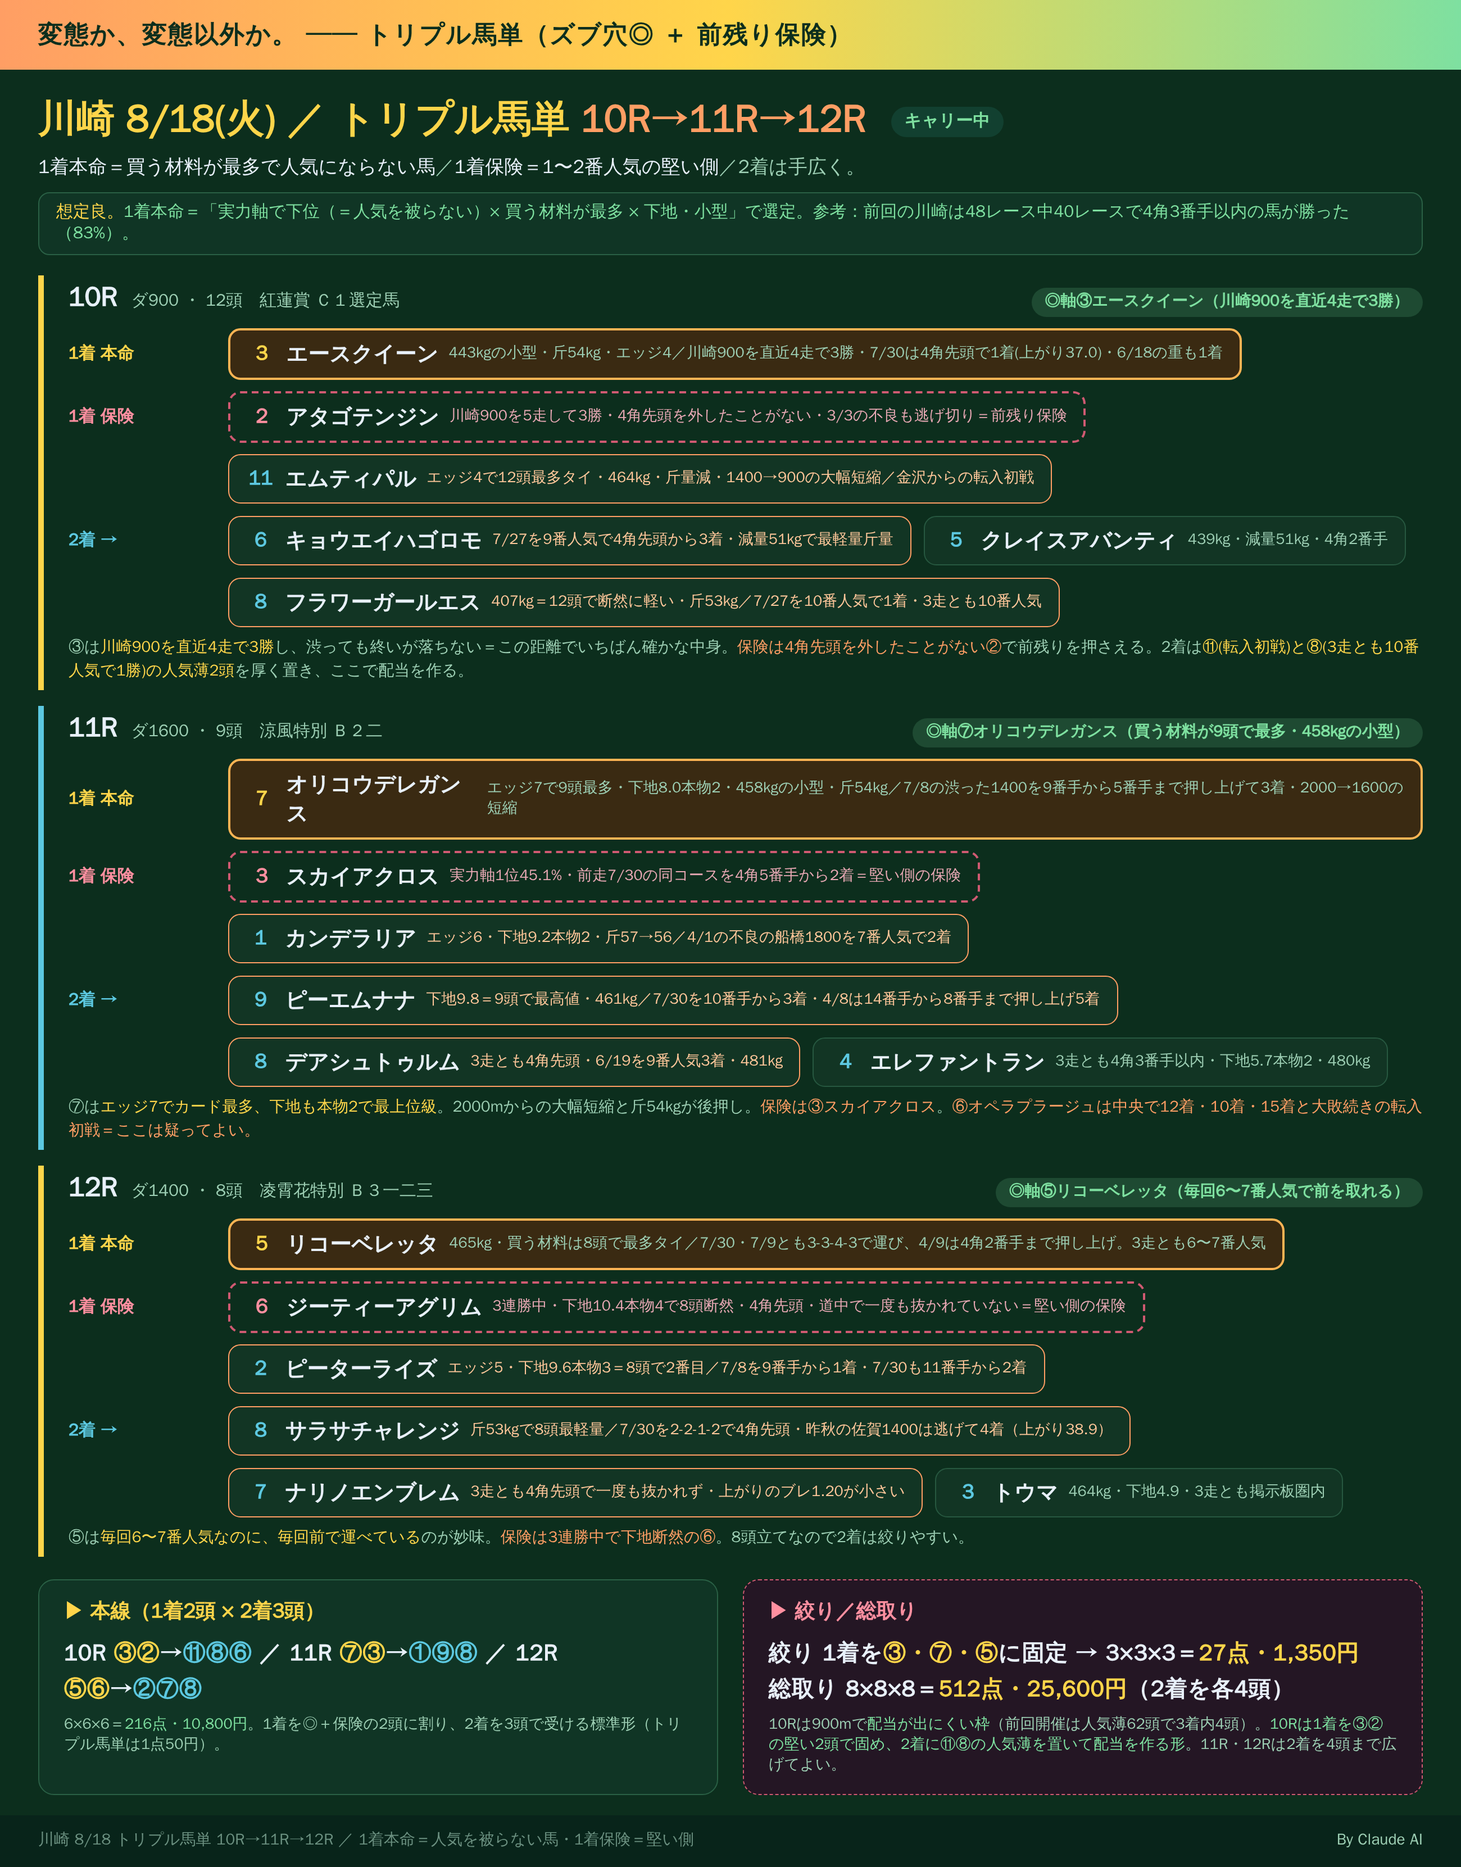
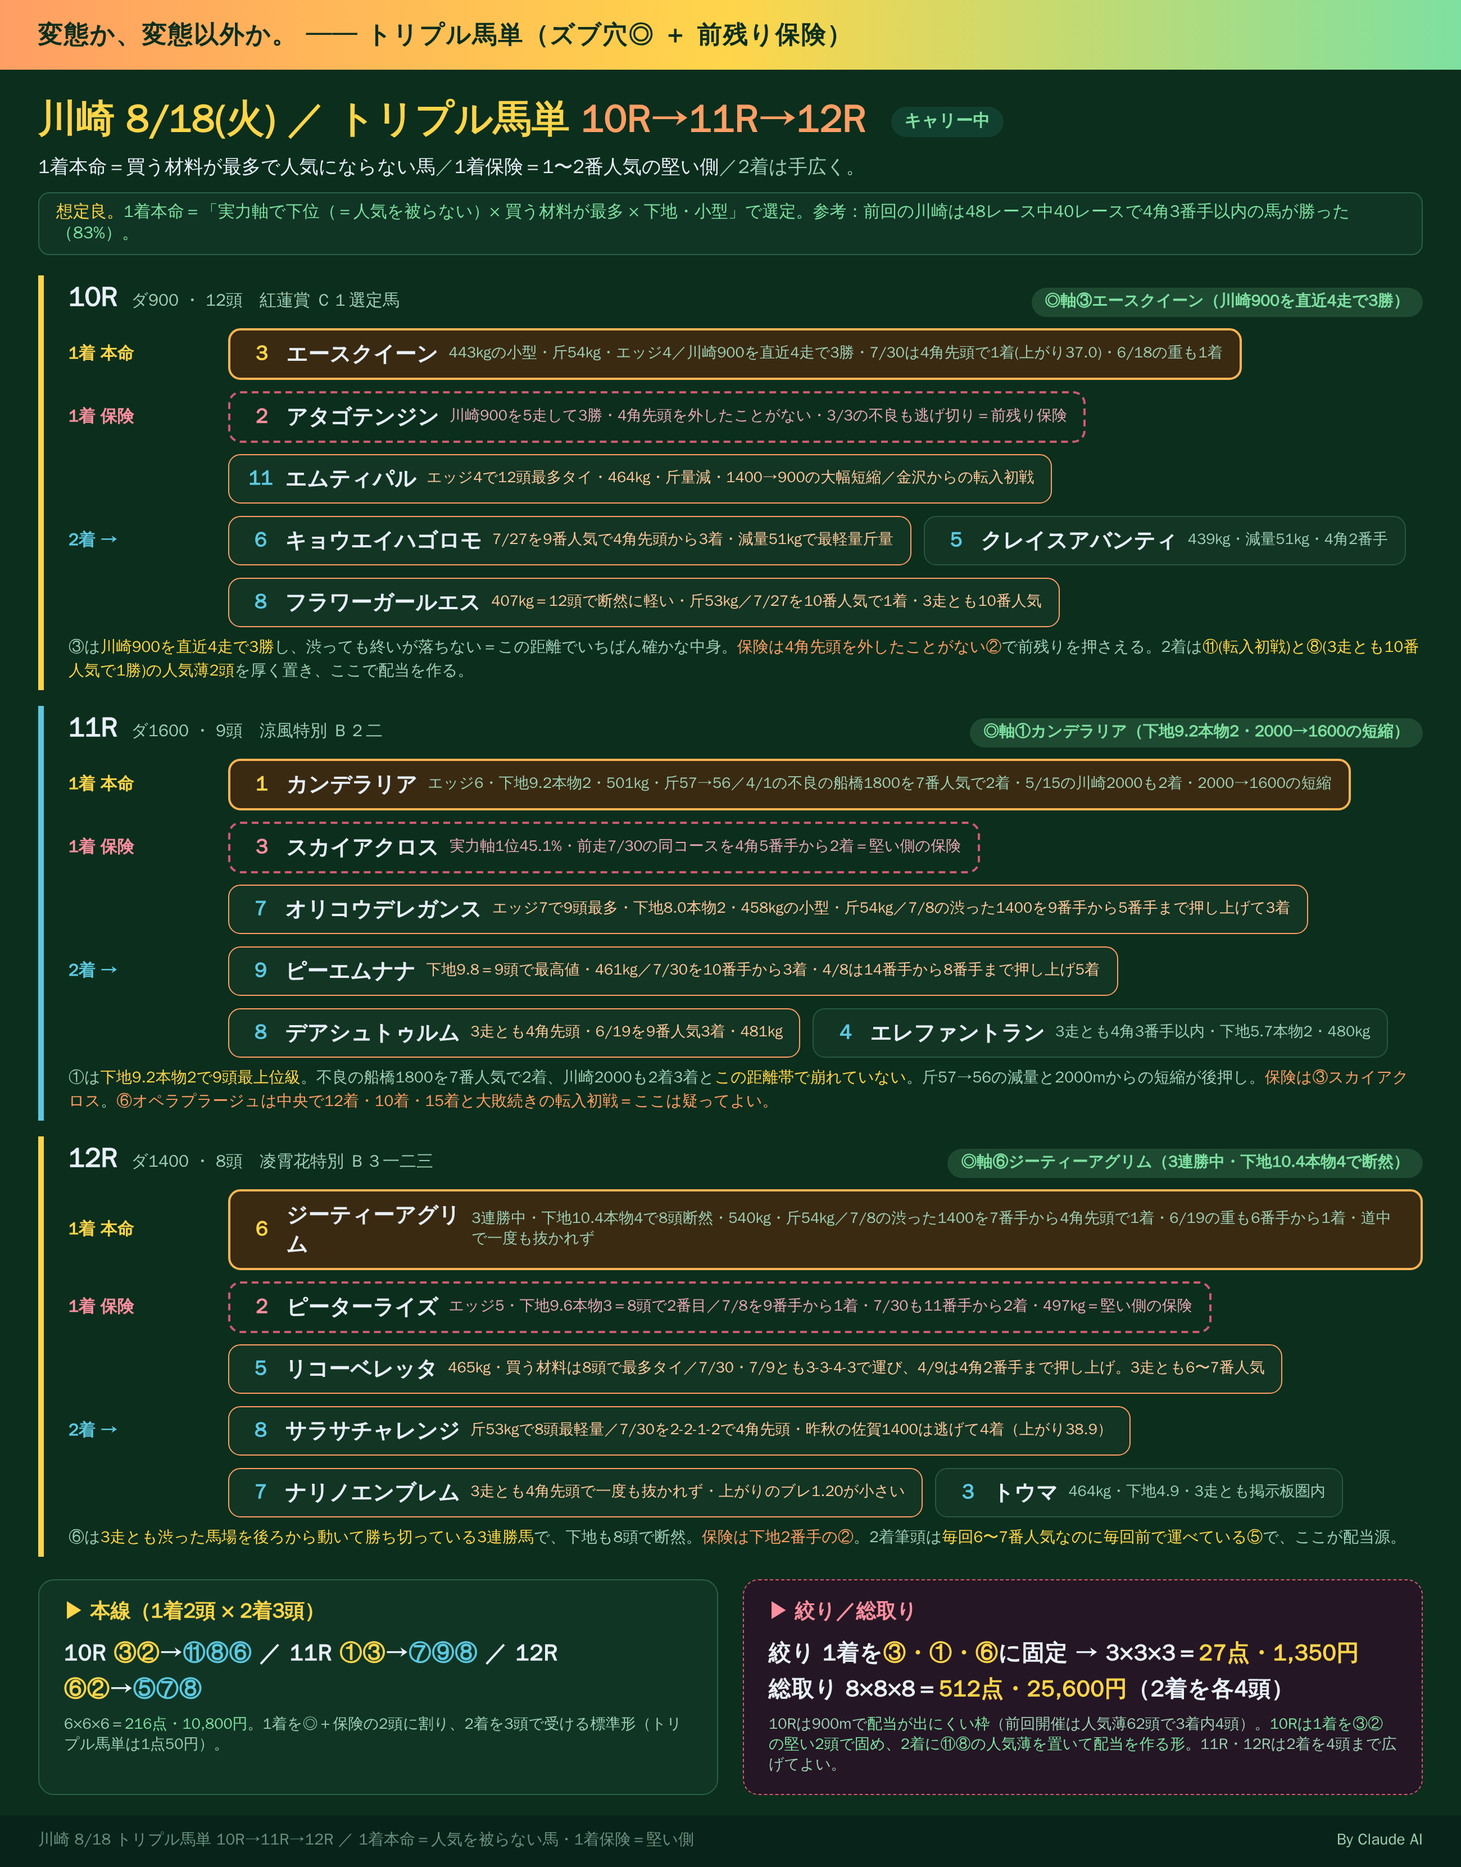
notes: 8/18 川崎 11R ◎○入れ替え・12R ◎⑥ジーティーアグリム（トリプル馬単も連動）
Claude-Session: https://claude.ai/code/session_01RoHscZkr96FNaxQWvUqgEw

Changed region(s): [[0.0312, 0.3721, 0.9969, 0.7441], [0.0623, 0.8061, 0.6542, 0.8371], [0.0312, 0.4031, 0.0935, 0.4961]]

diff --git a/notes/live/2026-08-18/kawasaki_triple_umatan.html b/notes/live/2026-08-18/kawasaki_triple_umatan.html
@@ -63,39 +63,39 @@
   </div>
 
   <div class="race r11">
-    <div class="rh"><span class="rn">11R</span><span class="rd">ダ1600 ・ 9頭　涼風特別 Ｂ２二</span><span class="rbadge">◎軸⑦オリコウデレガンス（買う材料が9頭で最多・458kgの小型）</span></div>
+    <div class="rh"><span class="rn">11R</span><span class="rd">ダ1600 ・ 9頭　涼風特別 Ｂ２二</span><span class="rbadge">◎軸①カンデラリア（下地9.2本物2・2000→1600の短縮）</span></div>
     <div class="line"><div class="tag"><span class="t1">1着 本命</span></div><div class="chips">
-      <div class="chip honmei"><span class="no">7</span><span class="nm">オリコウデレガンス</span><span class="meta">エッジ7で9頭最多・下地8.0本物2・458kgの小型・斤54kg／7/8の渋った1400を9番手から5番手まで押し上げて3着・2000→1600の短縮</span></div></div></div>
+      <div class="chip honmei"><span class="no">1</span><span class="nm">カンデラリア</span><span class="meta">エッジ6・下地9.2本物2・501kg・斤57→56／4/1の不良の船橋1800を<b>7番人気で2着</b>・5/15の川崎2000も2着・2000→1600の短縮</span></div></div></div>
     <div class="line"><div class="tag"><span class="t2">1着 保険</span></div><div class="chips">
       <div class="chip hoken"><span class="no">3</span><span class="nm">スカイアクロス</span><span class="meta">実力軸1位45.1%・前走7/30の同コースを4角5番手から2着＝堅い側の保険</span></div></div></div>
     <div class="line"><div class="tag"><span class="t3">2着 →</span></div><div class="chips">
-      <div class="chip aite ana"><span class="no">1</span><span class="nm">カンデラリア</span><span class="meta">エッジ6・下地9.2本物2・斤57→56／4/1の不良の船橋1800を<b>7番人気で2着</b></span></div>
+      <div class="chip aite ana"><span class="no">7</span><span class="nm">オリコウデレガンス</span><span class="meta">エッジ7で9頭最多・下地8.0本物2・458kgの小型・斤54kg／7/8の渋った1400を9番手から5番手まで押し上げて3着</span></div>
       <div class="chip aite ana"><span class="no">9</span><span class="nm">ピーエムナナ</span><span class="meta">下地9.8＝<b>9頭で最高値</b>・461kg／7/30を10番手から3着・4/8は14番手から8番手まで押し上げ5着</span></div>
       <div class="chip aite ana"><span class="no">8</span><span class="nm">デアシュトゥルム</span><span class="meta">3走とも4角先頭・6/19を9番人気3着・481kg</span></div>
       <div class="chip aite"><span class="no">4</span><span class="nm">エレファントラン</span><span class="meta">3走とも4角3番手以内・下地5.7本物2・480kg</span></div></div></div>
-    <div class="rc">⑦は<b>エッジ7でカード最多、下地も本物2で最上位級</b>。2000mからの大幅短縮と斤54kgが後押し。<span class="o">保険は③スカイアクロス</span>。<b class="o">⑥オペラプラージュは中央で12着・10着・15着と大敗続きの転入初戦＝ここは疑ってよい。</b></div>
+    <div class="rc">①は<b>下地9.2本物2で9頭最上位級</b>。不良の船橋1800を7番人気で2着、川崎2000も2着3着と<b>この距離帯で崩れていない</b>。斤57→56の減量と2000mからの短縮が後押し。<span class="o">保険は③スカイアクロス</span>。<b class="o">⑥オペラプラージュは中央で12着・10着・15着と大敗続きの転入初戦＝ここは疑ってよい。</b></div>
   </div>
 
   <div class="race r12">
-    <div class="rh"><span class="rn">12R</span><span class="rd">ダ1400 ・ 8頭　凌霄花特別 Ｂ３一二三</span><span class="rbadge">◎軸⑤リコーベレッタ（毎回6〜7番人気で前を取れる）</span></div>
+    <div class="rh"><span class="rn">12R</span><span class="rd">ダ1400 ・ 8頭　凌霄花特別 Ｂ３一二三</span><span class="rbadge">◎軸⑥ジーティーアグリム（3連勝中・下地10.4本物4で断然）</span></div>
     <div class="line"><div class="tag"><span class="t1">1着 本命</span></div><div class="chips">
-      <div class="chip honmei"><span class="no">5</span><span class="nm">リコーベレッタ</span><span class="meta">465kg・買う材料は8頭で最多タイ／7/30・7/9とも3-3-4-3で運び、4/9は4角2番手まで押し上げ。<b>3走とも6〜7番人気</b></span></div></div></div>
+      <div class="chip honmei"><span class="no">6</span><span class="nm">ジーティーアグリム</span><span class="meta"><b>3連勝中</b>・下地10.4本物4で8頭断然・540kg・斤54kg／7/8の渋った1400を7番手から4角先頭で1着・6/19の重も6番手から1着・道中で一度も抜かれず</span></div></div></div>
     <div class="line"><div class="tag"><span class="t2">1着 保険</span></div><div class="chips">
-      <div class="chip hoken"><span class="no">6</span><span class="nm">ジーティーアグリム</span><span class="meta"><b>3連勝中</b>・下地10.4本物4で8頭断然・4角先頭・道中で一度も抜かれていない＝堅い側の保険</span></div></div></div>
+      <div class="chip hoken"><span class="no">2</span><span class="nm">ピーターライズ</span><span class="meta">エッジ5・下地9.6本物3＝8頭で2番目／7/8を9番手から1着・7/30も11番手から2着・497kg＝堅い側の保険</span></div></div></div>
     <div class="line"><div class="tag"><span class="t3">2着 →</span></div><div class="chips">
-      <div class="chip aite ana"><span class="no">2</span><span class="nm">ピーターライズ</span><span class="meta">エッジ5・下地9.6本物3＝8頭で2番目／7/8を9番手から1着・7/30も11番手から2着</span></div>
+      <div class="chip aite ana"><span class="no">5</span><span class="nm">リコーベレッタ</span><span class="meta">465kg・買う材料は8頭で最多タイ／7/30・7/9とも3-3-4-3で運び、4/9は4角2番手まで押し上げ。<b>3走とも6〜7番人気</b></span></div>
       <div class="chip aite ana"><span class="no">8</span><span class="nm">サラサチャレンジ</span><span class="meta">斤53kgで8頭最軽量／7/30を2-2-1-2で4角先頭・昨秋の佐賀1400は逃げて4着（上がり38.9）</span></div>
       <div class="chip aite ana"><span class="no">7</span><span class="nm">ナリノエンブレム</span><span class="meta">3走とも4角先頭で一度も抜かれず・上がりのブレ1.20が小さい</span></div>
       <div class="chip aite"><span class="no">3</span><span class="nm">トウマ</span><span class="meta">464kg・下地4.9・3走とも掲示板圏内</span></div></div></div>
-    <div class="rc">⑤は<b>毎回6〜7番人気なのに、毎回前で運べている</b>のが妙味。<span class="o">保険は3連勝中で下地断然の⑥</span>。8頭立てなので2着は絞りやすい。</div>
+    <div class="rc">⑥は<b>3走とも渋った馬場を後ろから動いて勝ち切っている3連勝馬</b>で、下地も8頭で断然。<span class="o">保険は下地2番手の②</span>。2着筆頭は<b>毎回6〜7番人気なのに毎回前で運べている⑤</b>で、ここが配当源。</div>
   </div>
 
   <div class="buys">
     <div class="buy hon"><div class="bt">▶ 本線（1着2頭 × 2着3頭）</div>
-      <div class="bl">10R <span class="a">③②</span>→<span class="s">⑪⑧⑥</span> ／ 11R <span class="a">⑦③</span>→<span class="s">①⑨⑧</span> ／ 12R <span class="a">⑤⑥</span>→<span class="s">②⑦⑧</span></div>
+      <div class="bl">10R <span class="a">③②</span>→<span class="s">⑪⑧⑥</span> ／ 11R <span class="a">①③</span>→<span class="s">⑦⑨⑧</span> ／ 12R <span class="a">⑥②</span>→<span class="s">⑤⑦⑧</span></div>
       <div class="bn">6×6×6＝<b>216点・10,800円</b>。1着を◎＋保険の2頭に割り、2着を3頭で受ける標準形（トリプル馬単は1点50円）。</div></div>
     <div class="buy hok"><div class="bt">▶ 絞り／総取り</div>
-      <div class="bl">絞り 1着を<span class="a">③・⑦・⑤</span>に固定 → 3×3×3＝<span class="a">27点・1,350円</span><br>総取り 8×8×8＝<span class="a">512点・25,600円</span>（2着を各4頭）</div>
+      <div class="bl">絞り 1着を<span class="a">③・①・⑥</span>に固定 → 3×3×3＝<span class="a">27点・1,350円</span><br>総取り 8×8×8＝<span class="a">512点・25,600円</span>（2着を各4頭）</div>
       <div class="bn">10Rは900mで<b>配当が出にくい枠</b>（前回開催は人気薄62頭で3着内4頭）。<b>10Rは1着を③②の堅い2頭で固め、2着に⑪⑧の人気薄を置いて配当を作る形</b>。11R・12Rは2着を4頭まで広げてよい。</div></div>
   </div>
 

diff --git a/notes/live/2026-08-18/kawasaki_6_12.html b/notes/live/2026-08-18/kawasaki_6_12.html
@@ -90,16 +90,16 @@
 
   <div class="row">
     <div class="rN"><div class="n">11R</div><div class="d">ダ1600・9頭</div></div>
-    <div class="hm"><span class="fire">🔥</span><span class="mk">◎</span><span class="nm">⑦オリコウデレガンス</span></div>
-    <div class="at"><span class="mk2">○</span><span class="nm2">①カンデラリア</span></div>
-    <div class="memo">◎⑦は<b>458kgの小型</b>で<b>斤量54kg</b>。7/8の<b>渋った川崎1400を9番手から5番手まで押し上げて3着</b>。2000mから<b>一気に1600mへ縮む</b>のも良く、勝ち圏の時計を出した走りが2回。<b>買う材料の数はこの9頭で最多。</b>○①は4/1の<b>不良馬場の船橋1800を7番人気で、9番手から5番手まで押し上げて2着</b>。5/15の川崎2000も2着で、<b>上がり39.1は上位</b>。<b>斤量が57→56に軽くなり</b>、2000mから<b>距離が縮む</b>。501kg。ヒモ⑨②<br><b class='r'>※⑥は中央で12着・10着・15着と大敗続きの転入初戦。ここは疑ってよい。</b></div>
+    <div class="hm"><span class="fire">🔥</span><span class="mk">◎</span><span class="nm">①カンデラリア</span></div>
+    <div class="at"><span class="mk2">○</span><span class="nm2">⑦オリコウデレガンス</span></div>
+    <div class="memo">◎①は4/1の<b>不良馬場の船橋1800を7番人気で、9番手から5番手まで押し上げて2着</b>。5/15の川崎2000も<b>2着（上がり39.1）</b>、前走7/30の2000も3着と、<b>この距離帯で崩れていない</b>。<b>斤量が57→56に軽くなり</b>、2000mから<b>距離が縮む</b>。501kg。<b>勝ち圏の時計を出した中身はこの9頭で最上位級。</b>○⑦は<b>458kgの小型</b>で<b>斤量54kg</b>。7/8の<b>渋った川崎1400を9番手から5番手まで押し上げて3着</b>。2000mから<b>一気に1600mへ縮む</b>のも良く、<b>買う材料の数はこの9頭で最多。</b>ヒモ⑨②<br><b class='r'>※⑥は中央で12着・10着・15着と大敗続きの転入初戦。ここは疑ってよい。</b></div>
   </div>
 
   <div class="row">
     <div class="rN"><div class="n">12R</div><div class="d">ダ1400・8頭</div></div>
-    <div class="hm"><span class="mk">◎</span><span class="nm">⑤リコーベレッタ</span></div>
+    <div class="hm"><span class="mk">◎</span><span class="nm">⑥ジーティーアグリム</span></div>
     <div class="at"><span class="mk2">○</span><span class="nm2">②ピーターライズ</span></div>
-    <div class="memo">◎⑤は7/30・7/9とも<b>3-3-4-3で運んで7着・4着</b>、4/9は<b>4角2番手まで押し上げて4着</b>。<b>3走とも6〜7番人気で、毎回前で運べている</b>のが妙味。<b>買う材料の数はこの8頭で最多タイ</b>、465kgで渋った馬場にも向く。○②は7/8の川崎1400を<b>9番手から5番手まで押し上げて1着</b>、7/30も<b>11番手から2着</b>。<b>勝ち圏の時計を出した走りが3回</b>で、この8頭では2番目に厚い。497kg。ヒモ⑧⑥</div>
+    <div class="memo">◎⑥は<b>3連勝中</b>。7/8の<b>渋った川崎1400を7番手から4角先頭まで押し上げて1着</b>、6/19の<b>重馬場も6番手から3番手まで上げて1着</b>、5/25の浦和1500も1着。<b>3走とも渋った馬場で、後ろから動いて勝ち切っている</b>。<b>勝ち圏の時計を出した中身は8頭で断然</b>、道中で一度も抜かれていない。540kgの大型で<b>斤量54kg</b>。○②は7/8の川崎1400を<b>9番手から5番手まで押し上げて1着</b>、7/30も<b>11番手から2着</b>。<b>勝ち圏の時計を出した走りが3回</b>で、この8頭では2番目に厚い。497kg。ヒモ⑧⑤</div>
   </div>
 
   <div class="foot">🔑 <span class="y">8R⑫マイカグラ</span>と<span class="y">11R⑦オリコウデレガンス</span>、<span class="y">9R⑥レイニングキング</span>。

diff --git a/notes/live/2026-08-18/README.md b/notes/live/2026-08-18/README.md
@@ -120,7 +120,7 @@
 | 12R ダ1400 | ⑤リコーベレッタ | ⑥ジーティーアグリム（3連勝中・399=10.4本物4で断然） | ②⑦⑧③ |
 
 - 本線 6×6×6＝**216点・10,800円**：10R ⑪③→⑧⑥⑤ ／ 11R ⑦③→①⑨⑧ ／ 12R ⑤⑥→②⑦⑧
-- 絞り：1着を **③・⑦・⑤** に固定 → 3×3×3＝**27点・1,350円**
+- 絞り：1着を **③・①・⑥** に固定 → 3×3×3＝**27点・1,350円**
 - ⚠ **10Rは⑪の中身が薄い。絞るなら1着を⑪⑧の2頭に組み替える。**
 
 ---
@@ -166,11 +166,11 @@
 | R | 1着本命 | 人気 | 1着保険 | 2着相手 |
 |---|---|---|---|---|
 | 10R | **③エースクイーン** | ─ | ②アタゴテンジン（4角先頭を外したことがない） | ⑪⑧⑥⑤ |
-| 11R | ⑦オリコウデレガンス | 5人気10.0 | ③スカイアクロス（2人気4.2） | ⑨①⑧④ |
-| 12R | ⑤リコーベレッタ | **8人気41.4** | ⑥ジーティーアグリム（1人気2.5・3連勝中） | ⑧②⑦③ |
+| 11R | **①カンデラリア** | ─ | ③スカイアクロス | ⑦⑨⑧④ |
+| 12R | **⑥ジーティーアグリム**（3連勝中） | ─ | ②ピーターライズ | ⑤⑦⑧③ |
 
 - 本線 6×6×6＝**216点・10,800円**：10R ⑪②→⑧⑥③ ／ 11R ⑦③→⑨①⑧ ／ 12R ⑤⑥→⑧②⑦
-- 絞り：1着を **③・⑦・⑤** に固定 → 3×3×3＝**27点・1,350円**
+- 絞り：1着を **③・①・⑥** に固定 → 3×3×3＝**27点・1,350円**
 - ⚠ 10Rは⑪(57.9倍)と⑧(53.8倍)がどちらも2桁人気。絞るなら1着を**⑪⑧**の2頭に組み替える。
 
 ## カラーテーマ
@@ -193,11 +193,11 @@
 | **8R ダ900** | **⑫マイカグラ** | ③ラッキーカムカム | ⑧⑪ |
 | **9R ダ1500** | **⑥レイニングキング** | ②ブランディストック | ⑨⑧ |
 | 10R ダ900 | **③エースクイーン**（本人指定・443kgの小型・斤54kg・川崎900を直近4走で3勝・7/30は4角先頭で1着(上がり37.0)・6/18の重も1着） | **②アタゴテンジン**（本人指定・川崎900を5走して3勝・4角先頭を外したことがない・3/3の不良も逃げ切り） | ⑪⑧ |
-| **11R ダ1600** | **⑦オリコウデレガンス** | ①カンデラリア | ⑨② |
-| 12R ダ1400 | ⑤リコーベレッタ | ②ピーターライズ | ⑧⑥ |
+| **11R ダ1600** | **①カンデラリア**（本人指定・◎○入れ替え・下地9.2本物2・501kg・斤57→56・4/1の不良船橋1800を7番人気2着・2000→1600短縮） | ⑦オリコウデレガンス | ⑨② |
+| 12R ダ1400 | **⑥ジーティーアグリム**（本人指定・**3連勝中**・下地10.4本物4で8頭断然・540kg・斤54kg・3走とも渋った馬場を後ろから動いて勝ち切り・下げ0） | ②ピーターライズ | ⑧⑤ |
 
 **トリプル馬単（確定）**
-- 本線 6×6×6＝216点・10,800円：10R ③②→⑪⑧⑥ ／ 11R ⑦③→①⑨⑧ ／ 12R ⑤⑥→②⑦⑧
-- 絞り：1着を ③・⑦・⑤ に固定 → 27点・1,350円
+- 本線 6×6×6＝216点・10,800円：10R ③②→⑪⑧⑥ ／ 11R ①③→⑦⑨⑧ ／ 12R ⑥②→⑤⑦⑧
+- 絞り：1着を ③・①・⑥ に固定 → 27点・1,350円
 
 **◎の運用方針（確定）**：◎＝人気を被らない馬／○＝中身がいちばん確かな馬。**○が人気側になるのは許容する。**
